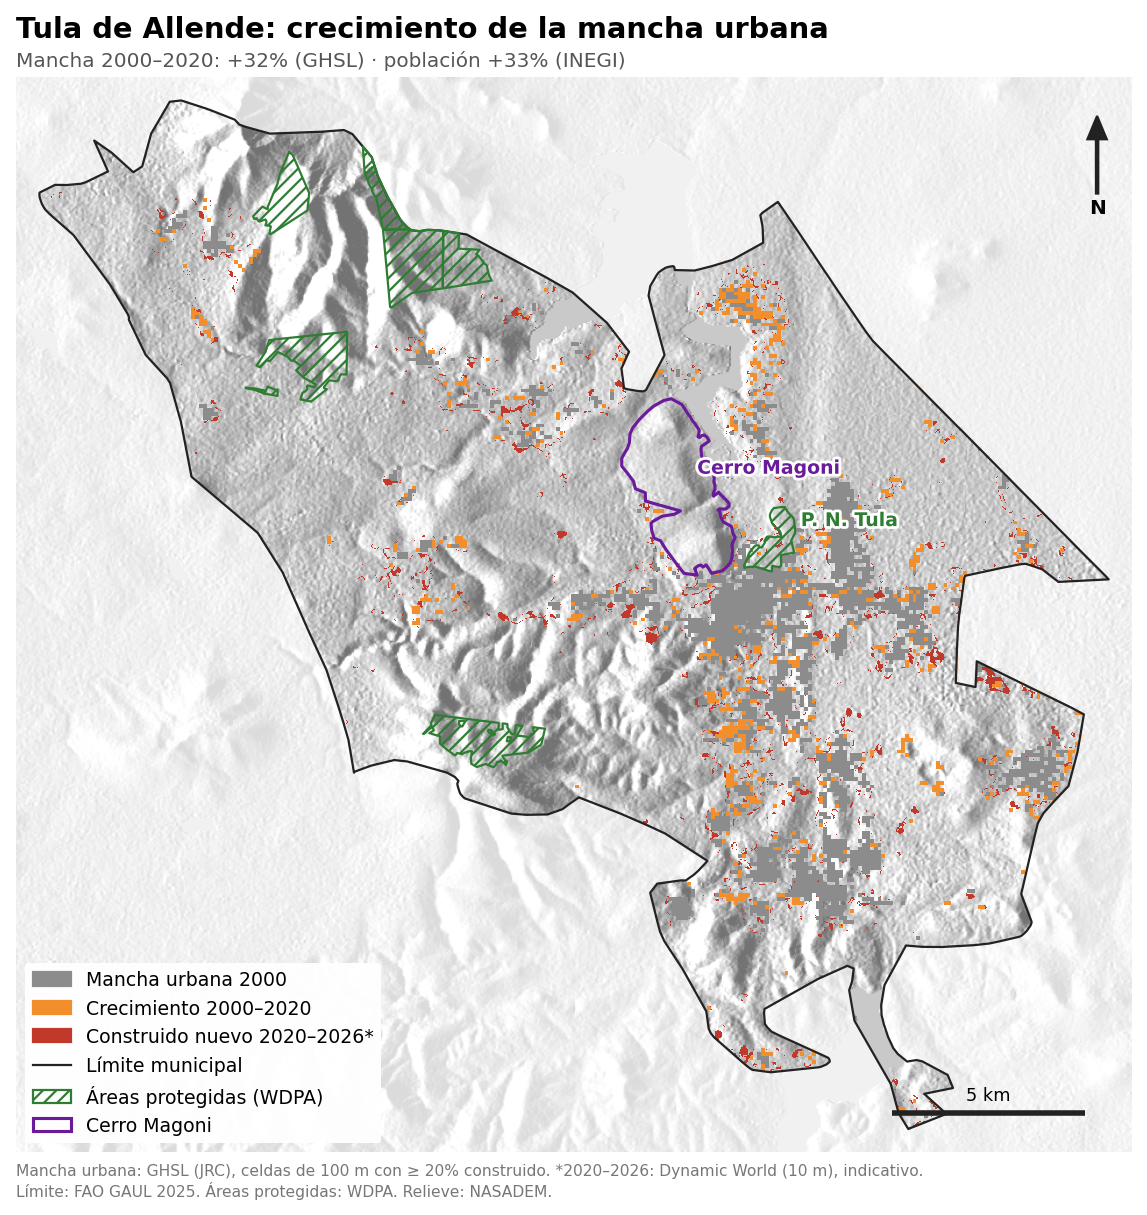
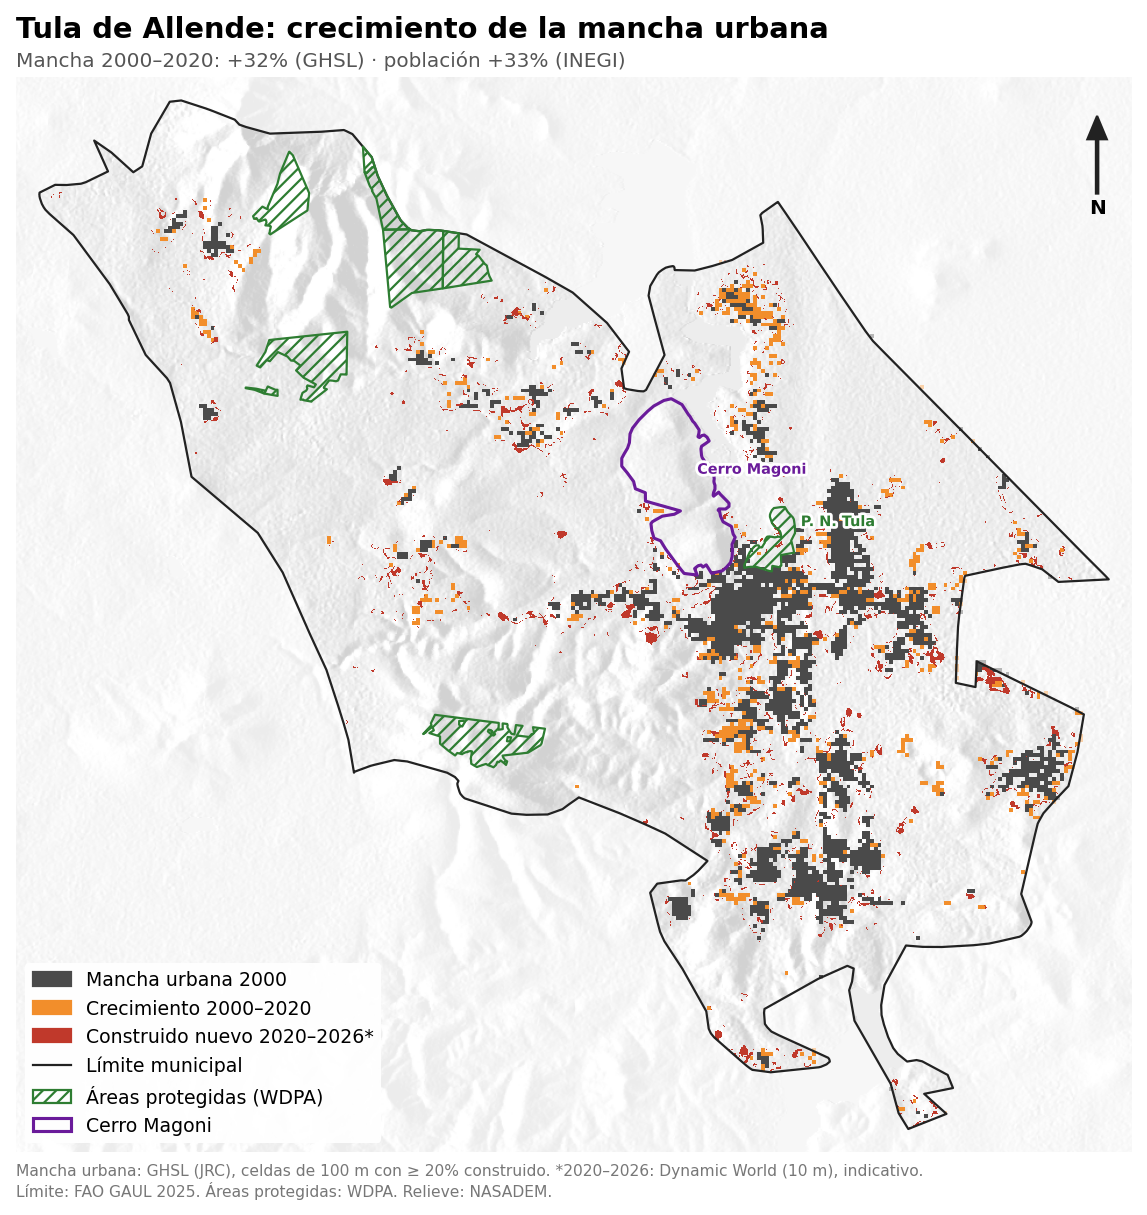
Áreas de Dynamic World y Hansen en UTM; mapas sin escala, relieve más claro y mancha 2000 más oscura

Changed region(s): [[0.0305, 0.0914, 0.9765, 0.944], [0.0305, 0.7918, 0.061, 0.8222]]

diff --git a/comun.py b/comun.py
@@ -20,7 +20,7 @@ def dw(años, geom):
 
 
 def dw_areas(año, geom):
-    h = dw((año,), geom).reduceRegion(ee.Reducer.frequencyHistogram(), geom, 10, maxPixels=1e10).getInfo()["label"]
+    h = dw((año,), geom).reduceRegion(ee.Reducer.frequencyHistogram(), geom, 10, crs=CRS, maxPixels=1e10).getInfo()["label"]
     return {DW_CLASES[int(k)]: v * 0.01 for k, v in h.items()}  # celdas de 10 m → ha
 
 
@@ -54,13 +54,13 @@ def base(mun, out, magoni):
 def dibujar(ax, b, titulo, subtitulo):
     from matplotlib.patches import FancyArrow
     z, ext = b["relieve"]
-    ax.imshow(z, cmap="gray", extent=ext, vmin=60, vmax=255, alpha=0.55, zorder=0)
+    ax.imshow(z, cmap="gray", extent=ext, vmin=60, vmax=255, alpha=0.18, zorder=0)
     lim = b["municipio"]
     x0, y0, x1, y1 = lim.total_bounds
     ax.set_xlim(x0 - 600, x1 + 600); ax.set_ylim(y0 - 600, y1 + 600)
     ax.set_axis_off()
     fuera = lim.envelope.buffer(4000).difference(lim.union_all())
-    fuera.plot(ax=ax, color="white", alpha=0.75, lw=0, zorder=4)
+    fuera.plot(ax=ax, color="white", alpha=0.6, lw=0, zorder=4)
     lim.boundary.plot(ax=ax, color="#222222", lw=1, zorder=6)
     b["anp"].plot(ax=ax, facecolor="none", edgecolor="#2e7d32", lw=1, hatch="////", zorder=6)
     b["magoni"].plot(ax=ax, facecolor="none", edgecolor="#6a1b9a", lw=1.4, zorder=6)
@@ -68,11 +68,8 @@ def dibujar(ax, b, titulo, subtitulo):
                       (b["anp"][b["anp"].NAME == "Tula"], "P. N. Tula", "#2e7d32")]:
         if len(g):
             p = g.union_all().representative_point()
-            ax.annotate(txt, (p.x, p.y), xytext=(10, 6), textcoords="offset points", fontsize=8.5, color=c,
+            ax.annotate(txt, (p.x, p.y), xytext=(10, 6), textcoords="offset points", fontsize=6.5, color=c,
                         weight="bold", zorder=8, path_effects=_halo())
-    sx, sy = x1 - 5600, y0 + 400
-    ax.plot([sx, sx + 5000], [sy, sy], color="#222222", lw=2.5, solid_capstyle="butt", zorder=8)
-    ax.text(sx + 2500, sy + 350, "5 km", ha="center", fontsize=8, zorder=8)
     ax.add_patch(FancyArrow(x1 - 300, y1 - 2400, 0, 1400, width=60, head_width=500, head_length=600,
                             color="#222222", zorder=8))
     ax.text(x1 - 300, y1 - 2900, "N", ha="center", fontsize=9, weight="bold", zorder=8)

diff --git a/gee_vegetacion_natural.py b/gee_vegetacion_natural.py
@@ -1,6 +1,6 @@
 import sys, os
 import ee
-from comun import municipio, dw, dw_areas, base, dibujar, leyenda_base, guardar, descargar, leer, pct, INICIO, FIN, NATURAL
+from comun import CRS, municipio, dw, dw_areas, base, dibujar, leyenda_base, guardar, descargar, leer, pct, INICIO, FIN, NATURAL
 
 AÑOS = range(2016, 2027)
 HANSEN = "UMD/hansen/global_forest_change_2025_v1_13"
@@ -29,7 +29,7 @@ def main(magoni, out, proyecto):
     t[["año"] + [c for c in nat if c in t] + ["natural"]].round(1).to_csv(f"{out}/vegetacion_natural_dw.csv", index=False)
 
     perdida = ee.Image(HANSEN).select("lossyear")
-    h = perdida.selfMask().reduceRegion(ee.Reducer.frequencyHistogram(), geom, 30, maxPixels=1e10).getInfo()["lossyear"]
+    h = perdida.selfMask().reduceRegion(ee.Reducer.frequencyHistogram(), geom, 30, crs=CRS, maxPixels=1e10).getInfo()["lossyear"]
     hs = pd.DataFrame({"año": [2000 + int(k) for k in h], "perdida_arboles_ha": [v * 0.09 for v in h.values()]})
     hs = hs.set_index("año").reindex(range(2001, 2026), fill_value=0).reset_index().round(1)
     hs.to_csv(f"{out}/perdida_arboles_hansen.csv", index=False)
@@ -39,7 +39,7 @@ def main(magoni, out, proyecto):
     cambio = (ee.Image(0).where(n0.And(n1), 1).where(n0.And(b.eq(CULTIVOS)), 2).where(n0.And(b.eq(CONSTRUIDO)), 3)
               .where(n0.And(n1.Not()).And(b.neq(CULTIVOS)).And(b.neq(CONSTRUIDO)), 4).where(n0.Not().And(n1), 5)
               .selfMask().toByte().rename("c").clip(geom))
-    h = cambio.reduceRegion(ee.Reducer.frequencyHistogram(), geom, 10, maxPixels=1e10).getInfo()["c"]
+    h = cambio.reduceRegion(ee.Reducer.frequencyHistogram(), geom, 10, crs=CRS, maxPixels=1e10).getInfo()["c"]
     ha = {CLASES[int(k)][0]: v * 0.01 for k, v in h.items()}
     pd.Series(ha, name="ha").round(1).rename_axis("cambio").to_csv(f"{out}/vegetacion_natural_cambio.csv")
 

diff --git a/gee_tierra_agricola.py b/gee_tierra_agricola.py
@@ -1,6 +1,6 @@
 import sys, os
 import ee
-from comun import municipio, dw, dw_areas, base, dibujar, leyenda_base, guardar, descargar, leer, pct, INICIO, FIN
+from comun import CRS, municipio, dw, dw_areas, base, dibujar, leyenda_base, guardar, descargar, leer, pct, INICIO, FIN
 
 AÑOS = range(2016, 2027)
 CULTIVOS, CONSTRUIDO = 4, 6
@@ -29,7 +29,7 @@ def main(magoni, out, proyecto):
     cambio = (ee.Image(0).where(c0.And(c1), 1).where(c0.Not().And(c1), 2)
               .where(c0.And(b.eq(CONSTRUIDO)), 3).where(c0.And(c1.Not()).And(b.neq(CONSTRUIDO)), 4)
               .selfMask().toByte().rename("c").clip(geom))
-    h = cambio.reduceRegion(ee.Reducer.frequencyHistogram(), geom, 10, maxPixels=1e10).getInfo()["c"]
+    h = cambio.reduceRegion(ee.Reducer.frequencyHistogram(), geom, 10, crs=CRS, maxPixels=1e10).getInfo()["c"]
     ha = {CLASES[int(k)][0]: v * 0.01 for k, v in h.items()}
     pd.Series(ha, name="ha").round(1).rename_axis("cambio").to_csv(f"{out}/tierra_agricola_cambio.csv")
 

diff --git a/gee_mancha_urbana.py b/gee_mancha_urbana.py
@@ -68,7 +68,7 @@ def main(magoni, out, proyecto):
     descargar(nuevo, b["region"], 20, f"{out}/_dw.tif")
     (zg, eg), (zd, ed) = leer(f"{out}/_ghsl.tif"), leer(f"{out}/_dw.tif")
 
-    col = {"2000": "#8c8c8c", "2020": "#f28e2b", "2026": "#c0392b"}
+    col = {"2000": "#4a4a4a", "2020": "#f28e2b", "2026": "#c0392b"}
     fig, ax = plt.subplots(figsize=(9, 10.5))
     dibujar(ax, b, "Tula de Allende: crecimiento de la mancha urbana",
             f"Mancha {AÑOS[0]}–{AÑOS[-1]}: {cambio(f'mancha_{UMBRAL:.0%}'):+.0f}% (GHSL) · población {pct(*POBLACION):+.0f}% (INEGI)")
